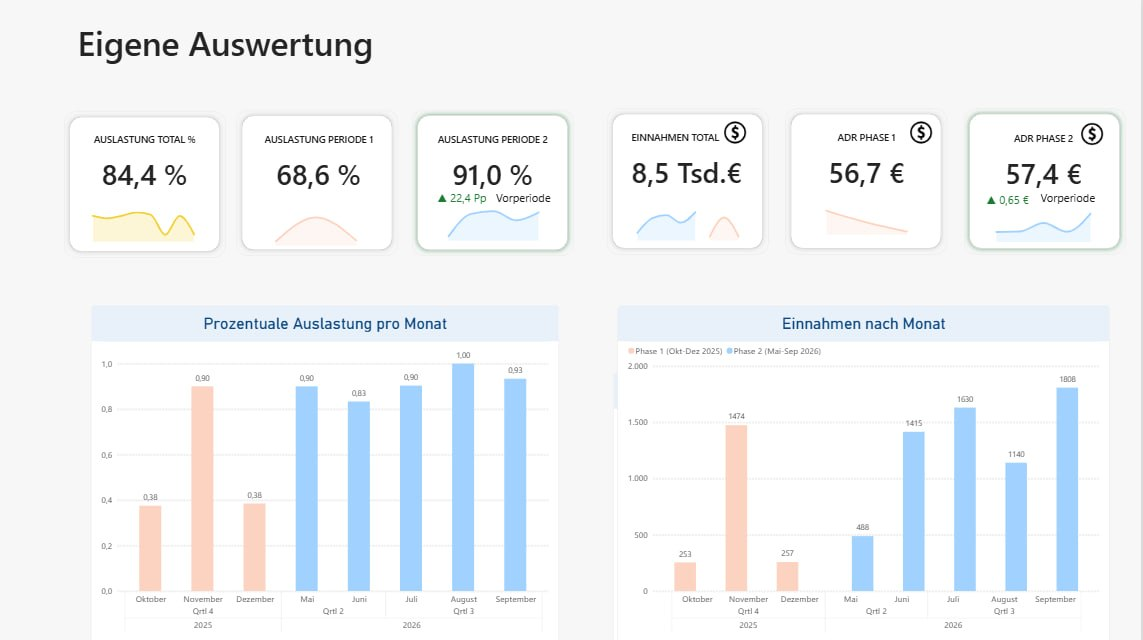
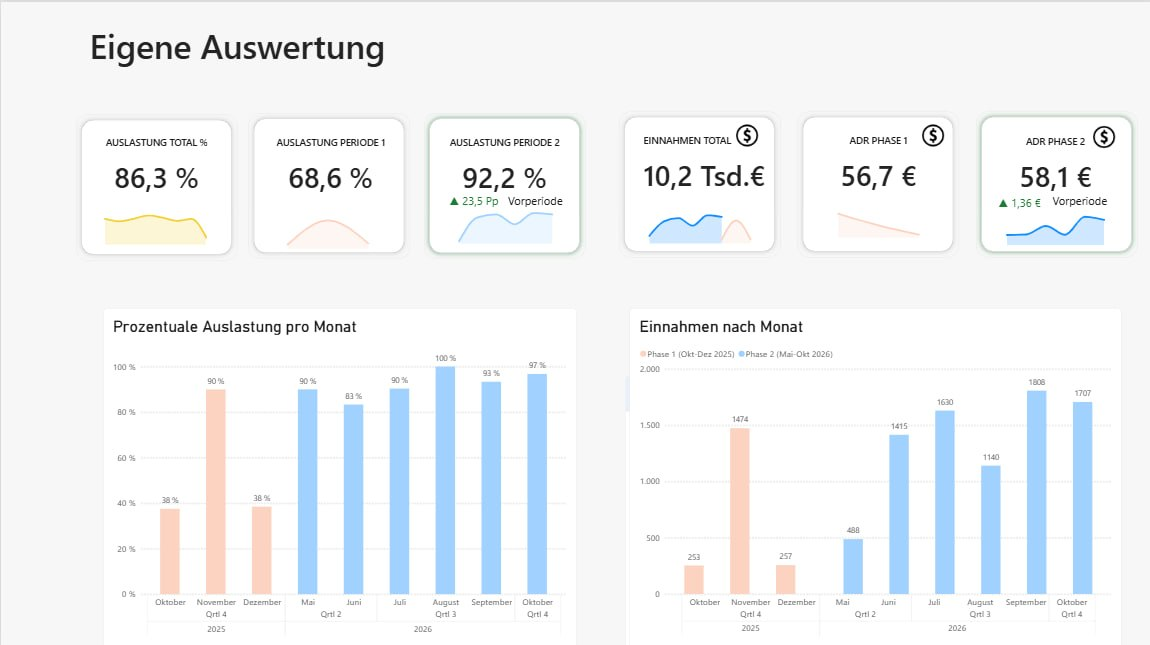
docs: Screenshot der Startseite aktualisiert
screenshots/01_overview.png neu aufgenommen (aktuelle KPIs und
Monatsverlaeufe). Cache-Parameter im README auf v=3 gezogen, damit
GitHub die neue Fassung anzeigt statt der alten aus dem Browser-Cache.

diff --git a/README.md b/README.md
@@ -15,7 +15,7 @@ revenue without nights, and Airbnb's fee-model switch that changed what
 "price" means. All measures documented in [`dax/measures.md`](dax/measures.md).
 
 <!-- Screenshot der Startseite -->
-![Übersicht](screenshots/01_overview.png?v=2)
+![Übersicht](screenshots/01_overview.png?v=3)
 
 ## Worum es geht
 
